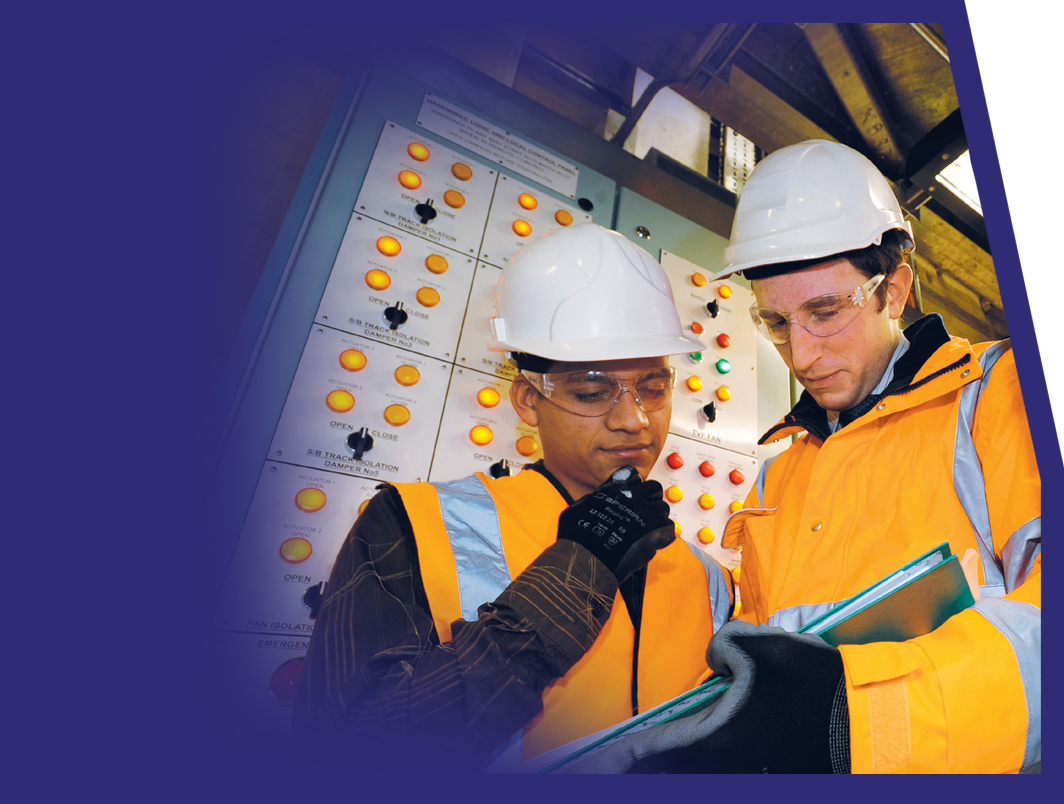
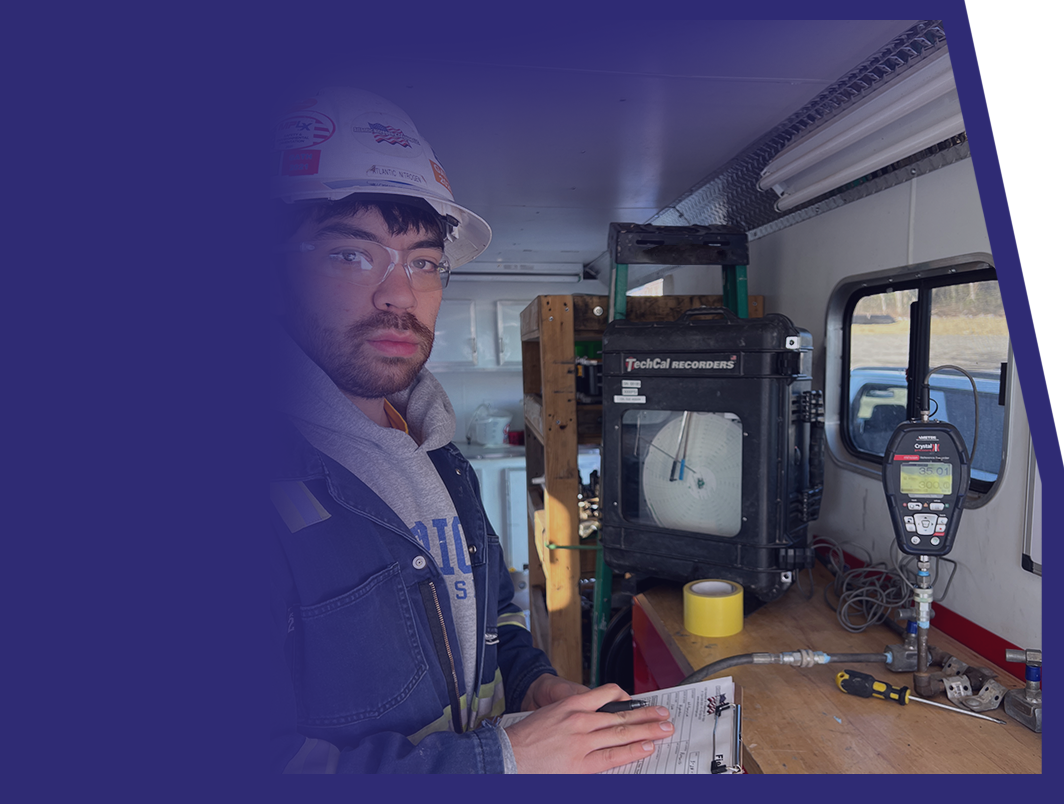
changed experience image, layout fixes, gallery additions

diff --git a/assets/css/style.css b/assets/css/style.css
@@ -142,6 +142,15 @@ li {
 	transition: ease-in 0.5s all;
 }
 
+.logo_white {
+	grid-area: logo;
+
+	margin-top: 5px;
+	margin-bottom: 5px;
+
+	background: url(../images/logo/ANT_Vector_logo_white.svg) left center no-repeat;
+}
+
 .main_menu .logo--inactive {
 	opacity: 0;
 }
@@ -509,14 +518,11 @@ li {
 	}
 
 	.full_context_menu {
-		grid-template-rows: 0.5fr 0.3fr 1fr 1fr 1fr 1fr 0.5fr;
+		grid-template-rows: 1fr 0.3fr 1fr 1fr;
 		grid-template-areas: 
 			". logo logo logo exit_menu ."
 			". context_text context_text context_text context_text ."
-			". sub_menu1 sub_menu1 sub_menu1 sub_menu1 ."
-			". sub_menu2 sub_menu2 sub_menu2 sub_menu2 ."
-			". sub_menu3 sub_menu3 sub_menu3 sub_menu3 ."
-			". sub_menu4 sub_menu4 sub_menu4 sub_menu4 ."
+			". sub_menu1 sub_menu2 sub_menu3 sub_menu4 ."
 			". footer footer footer footer .";
 	}
 

diff --git a/assets/css/service_style.css b/assets/css/service_style.css
@@ -182,6 +182,17 @@
 	.block3 p {
 		margin-right: 20%;
 	}
+
+	.block3 h1 {
+		position: absolute;
+		margin: 0;
+		bottom: 53px;
+		right: 10px;
+		color: var(--primary-color);
+		text-align: right;
+		background-color: white;
+		z-index: 10;
+	}
 }
 
 @media screen and (max-width: 992px) and (orientation:landscape) {
@@ -191,5 +202,17 @@
 
 	.block3 p {
 		font-size: 17pt;
+	}
+
+	.block1 h5 {
+		position: absolute;
+		white-space: nowrap;
+		margin: 0;
+		bottom: 0;
+		-webkit-transform: rotate(-90deg);
+		transform: rotate(-90deg);
+		transform-origin: 0% 0%;
+
+		font-size: small;
 	}
 }

diff --git a/assets/css/index_style.css b/assets/css/index_style.css
@@ -81,6 +81,19 @@ body {
 		background-size: 200px 200px;
 		height: 103%;
 	}
+
+	.homepage_splash_screen .splash_screen_heading .logo img {
+		width: 300px;
+		margin-bottom: 25px;
+	}
+	
+
+	.homepage_splash_screen .splash_screen_heading .logo h1 {
+		margin: 0;
+		background: rgba(129, 206, 245, 0.877);
+
+		font-size: 40pt;
+	}
 }
 
 .homepage_content {

diff --git a/_includes/components/full_context_menu.html b/_includes/components/full_context_menu.html
@@ -1,5 +1,5 @@
 <div class="full_context_menu">
-    <a class="logo" href="/"></a>
+    <a class="logo_white" href="/"></a>
     <a class="exit" id="drop_down_menu-exit"></a>
     <h1 class="context_text">Site Navigation</h1>
     <div class="sub_menu" id="sub_menu1">
